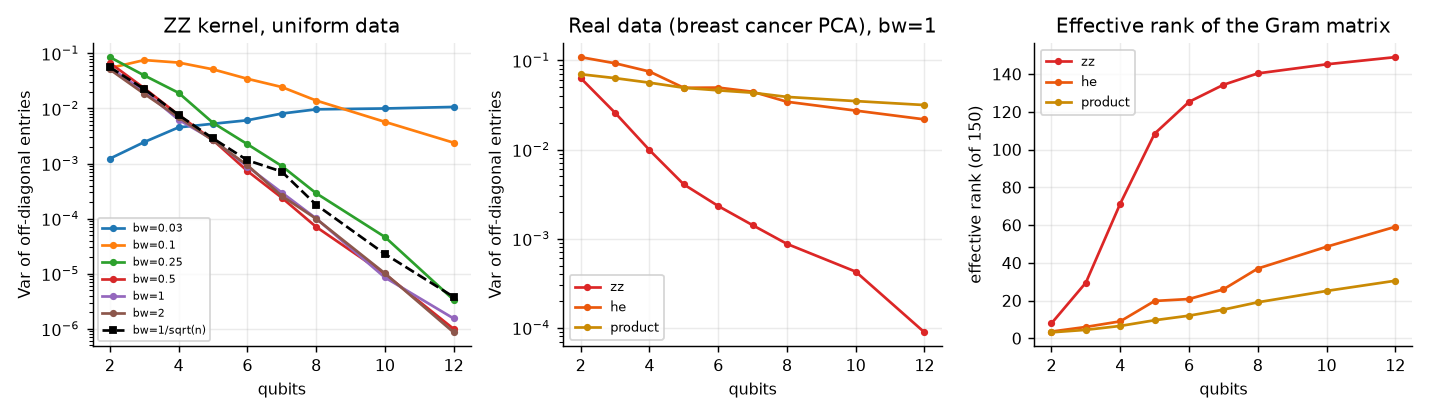
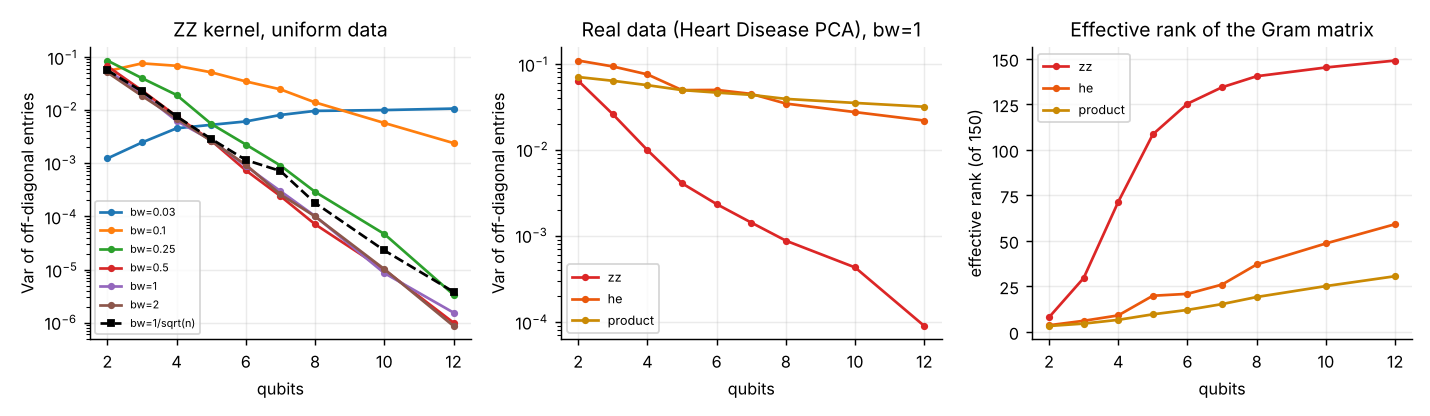
Fix concentration figure title: real data is Heart Disease
The middle panel of the concentration figure is computed on Heart Disease
data (configs/default.yaml: concentration.real_dataset: heart), but its title
said "breast cancer PCA". Correct the title in plot_concentration and
regenerate results/full/figures/concentration.png from the committed
results; the plotted data are unchanged.

Claude-Session: https://claude.ai/code/session_01Y2T9M8duGjHGr4gib1nkSN

diff --git a/qsvm_classification/scripts/analyze.py b/qsvm_classification/scripts/analyze.py
@@ -140,7 +140,7 @@ def plot_concentration(df, path):
         axes[1].semilogy(g.n_qubits, g.offdiag_var, marker="o", ms=3, color=c, label=fm)
         g = df[(df.feature_map == fm) & (df.source == "real") & (df.bandwidth_rule == "fixed") & (df.bandwidth == 1.0)]
         axes[2].plot(g.n_qubits, g.eff_rank, marker="o", ms=3, color=c, label=fm)
-    axes[1].set(title="Real data (breast cancer PCA), bw=1", xlabel="qubits", ylabel="Var of off-diagonal entries")
+    axes[1].set(title="Real data (Heart Disease PCA), bw=1", xlabel="qubits", ylabel="Var of off-diagonal entries")
     axes[2].set(title="Effective rank of the Gram matrix", xlabel="qubits", ylabel="effective rank (of 150)")
     axes[1].legend(fontsize=7)
     axes[2].legend(fontsize=7)
